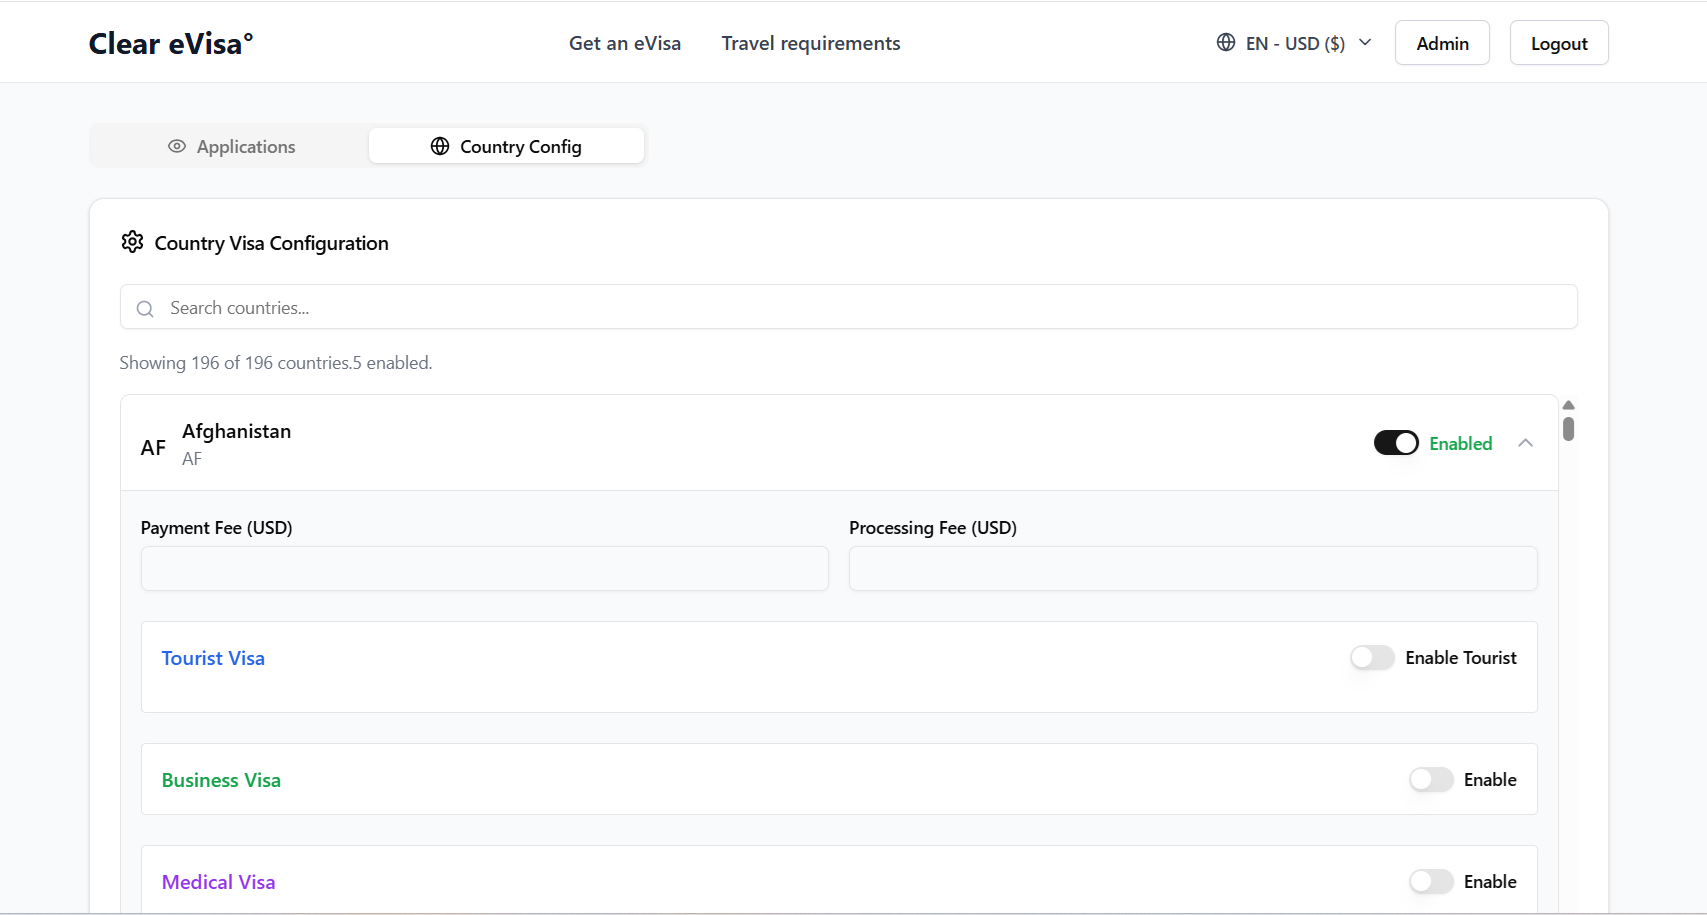
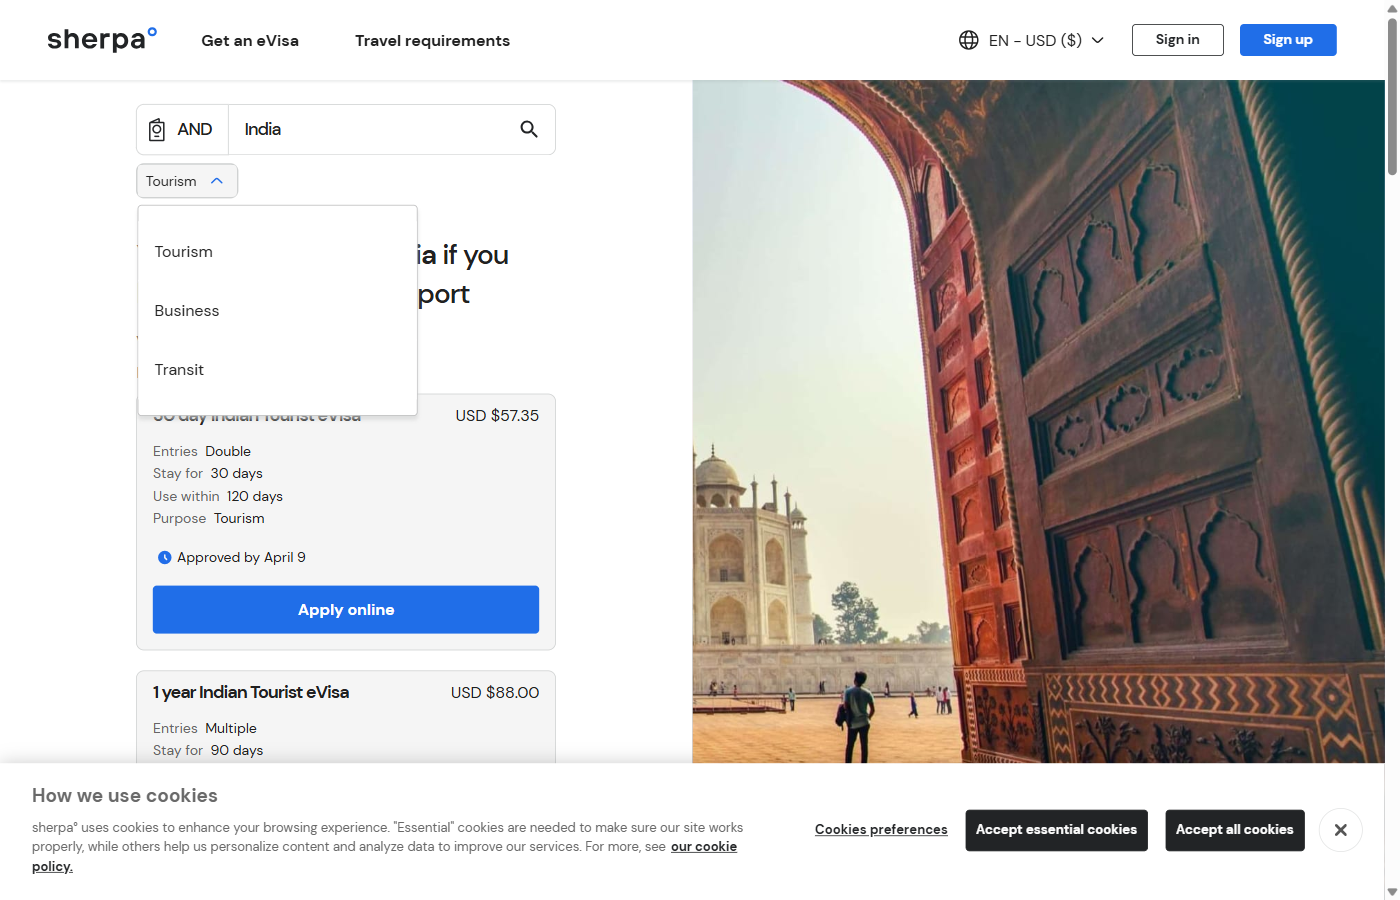
TEMP -> APP ID fix at page 9 -document upload.

diff --git a/frontend/src/pages/VisaApplication.jsx b/frontend/src/pages/VisaApplication.jsx
@@ -214,7 +214,8 @@ const VisaApplication = () => {
       const nextStep = currentStep + 1;
 
       // When moving to the Document Upload step (step 9), generate an application ID
-      if (nextStep === 9 && !updatedData.applicationId) {
+      // Also replace any TEMP ID with a real APP ID
+      if (nextStep === 9 && (!updatedData.applicationId || updatedData.applicationId.startsWith('TEMP'))) {
         try {
           const res = await fetch(`${BACKEND_URL}/api/applications/assign-id`, {
             method: 'POST',

diff --git a/backend/routes/applications.py b/backend/routes/applications.py
@@ -198,21 +198,31 @@ def generate_application_id() -> str:
 @router.post("/assign-id", response_model=dict)
 async def assign_application_id(user_id: str = Depends(get_current_user)):
     """
-    Generate an application ID for the user's draft and create the upload folder.
-    Called when the user reaches the Document Upload step.
+    Generate a permanent APP ID for the user's draft and create the upload folder.
+    Replaces any existing TEMP ID. Called when the user reaches the Document Upload step.
     """
-    # Check if draft already has an application ID
+    now = datetime.utcnow()
     existing = await db.applications.find_one({"userId": user_id, "status": "draft"})
-    if existing and existing.get("applicationId"):
-        application_id = existing["applicationId"]
-    else:
+    existing_id = existing.get("applicationId", "") if existing else ""
+
+    # Assign a new APP ID if there's no ID yet or the current one is a TEMP placeholder
+    if not existing_id or existing_id.startswith("TEMP"):
         application_id = generate_application_id()
-        now = datetime.utcnow()
         if existing:
             await db.applications.update_one(
                 {"_id": existing["_id"]},
                 {"$set": {"applicationId": application_id, "updatedAt": now}}
             )
+            # Rename the TEMP folder to the new APP folder if it exists
+            if existing_id:
+                old_folder = UPLOAD_DIR / existing_id
+                new_folder = UPLOAD_DIR / application_id
+                if old_folder.exists() and not new_folder.exists():
+                    old_folder.rename(new_folder)
+                    # Rename any files inside that still carry the old TEMP prefix
+                    for f in new_folder.iterdir():
+                        if f.is_file() and f.name.startswith(existing_id):
+                            f.rename(new_folder / f.name.replace(existing_id, application_id, 1))
         else:
             await db.applications.insert_one({
                 "userId": user_id,
@@ -221,8 +231,10 @@ async def assign_application_id(user_id: str = Depends(get_current_user)):
                 "createdAt": now,
                 "updatedAt": now
             })
+    else:
+        application_id = existing_id
 
-    # Create the upload folder for this application
+    # Create the upload folder for this application (no-op if already exists)
     app_folder = UPLOAD_DIR / application_id
     os.makedirs(app_folder, exist_ok=True)
 
